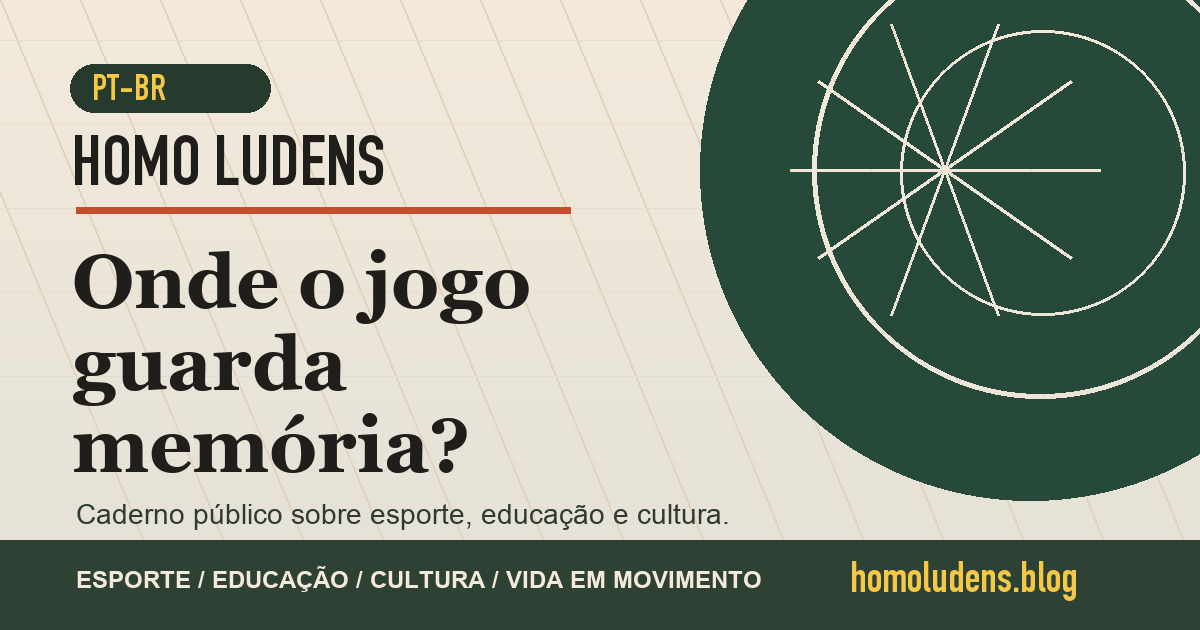
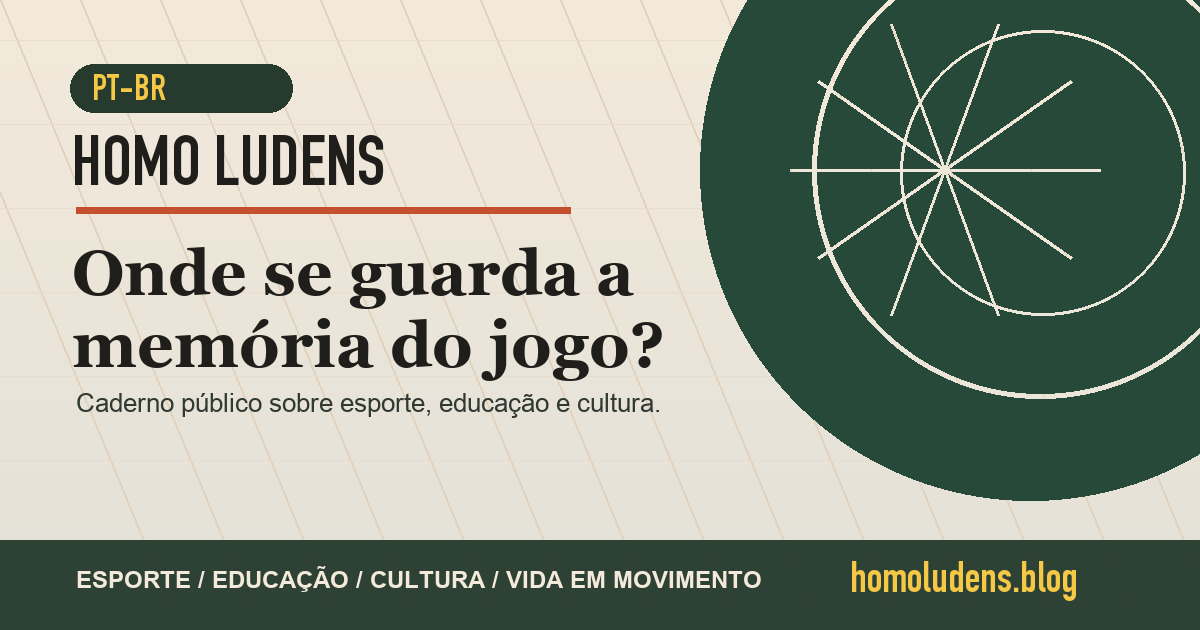
Update Homoludens social question

Changed region(s): [[0.0617, 0.3921, 0.555, 0.754], [0.0617, 0.7841, 0.6167, 0.8444], [0.2158, 0.0905, 0.2467, 0.181]]

diff --git a/es/index.html b/es/index.html
@@ -13,14 +13,14 @@
 </script>
 <meta content="index,follow" name="robots"/>
 <meta content="#F2EDE3" name="theme-color"/>
-<title>¿Dónde guarda memoria el juego? - Homo Ludens Blog</title>
+<title>¿Dónde se guarda la memoria del juego? - Homo Ludens Blog</title>
 <meta content="ES-LATAM. Una puerta latinoamericana para pensar deporte, educación, cultura y vida en movimiento desde el juego." name="description"/>
 <link href="https://www.homoludens.blog/es/" rel="canonical"/>
-<meta content="¿Dónde guarda memoria el juego? - Homo Ludens Blog" property="og:title"/>
+<meta content="¿Dónde se guarda la memoria del juego? - Homo Ludens Blog" property="og:title"/>
 <meta content="ES-LATAM. Una puerta latinoamericana para pensar deporte, educación, cultura y vida en movimiento desde el juego." property="og:description"/>
 <meta content="website" property="og:type"/>
 <meta content="https://www.homoludens.blog/es/" property="og:url"/>
-<meta content="https://www.homoludens.blog/assets/og-homoludens-es.jpg?v=20260608" property="og:image"/>
+<meta content="https://www.homoludens.blog/assets/og-homoludens-es.jpg?v=20260608b" property="og:image"/>
 <script src="https://cdn.tailwindcss.com"></script>
 <script>
     tailwind.config = {
@@ -170,7 +170,7 @@
     .hl-footer__bottom { display: flex; flex-direction: column; gap: .7rem; margin-top: 2.4rem; border-top: 1px solid rgba(43,43,43,.14); padding-top: 1rem; color: var(--hl-tinta); font-size: .72rem; letter-spacing: .08em; text-transform: uppercase; }
     @media (min-width: 768px) { .hl-footer__grid { grid-template-columns: 1.35fr .85fr 1.05fr 1.15fr; align-items: start; } .hl-footer__bottom { flex-direction: row; justify-content: space-between; } }
   </style>
-<meta content="es_419" property="og:locale"/><link href="https://www.homoludens.blog/" hreflang="pt-BR" rel="alternate"/><link href="https://www.homoludens.blog/es/" hreflang="es-419" rel="alternate"/><link href="https://www.homoludens.blog/" hreflang="x-default" rel="alternate"/><script type="application/ld+json">{"@context":"https://schema.org","@type":"WebSite","name":"Homo Ludens Blog","url":"https://www.homoludens.blog/es/","inLanguage":"es-419","publisher":{"@type":"Person","name":"Sebastián Acevedo Vásquez"}}</script><meta content="https://www.homoludens.blog/assets/og-homoludens-es.jpg?v=20260608" property="og:image:secure_url"/><meta content="image/jpeg" property="og:image:type"/><meta content="1200" property="og:image:width"/><meta content="630" property="og:image:height"/><meta content="Card social en español latinoamericano del Homo Ludens Blog con la pregunta ¿Dónde guarda memoria el juego?" property="og:image:alt"/><meta content="pt_BR" property="og:locale:alternate"/><meta content="¿Dónde guarda memoria el juego? - Homo Ludens Blog" name="twitter:title"/><meta content="ES-LATAM. Una puerta latinoamericana para pensar deporte, educación, cultura y vida en movimiento desde el juego." name="twitter:description"/><meta content="https://www.homoludens.blog/assets/og-homoludens-es.jpg?v=20260608" name="twitter:image"/><meta content="Card social en español latinoamericano del Homo Ludens Blog con la pregunta ¿Dónde guarda memoria el juego?" name="twitter:image:alt"/></head>
+<meta content="es_419" property="og:locale"/><link href="https://www.homoludens.blog/" hreflang="pt-BR" rel="alternate"/><link href="https://www.homoludens.blog/es/" hreflang="es-419" rel="alternate"/><link href="https://www.homoludens.blog/" hreflang="x-default" rel="alternate"/><script type="application/ld+json">{"@context":"https://schema.org","@type":"WebSite","name":"Homo Ludens Blog","url":"https://www.homoludens.blog/es/","inLanguage":"es-419","publisher":{"@type":"Person","name":"Sebastián Acevedo Vásquez"}}</script><meta content="https://www.homoludens.blog/assets/og-homoludens-es.jpg?v=20260608b" property="og:image:secure_url"/><meta content="image/jpeg" property="og:image:type"/><meta content="1200" property="og:image:width"/><meta content="630" property="og:image:height"/><meta content="Card social en español latinoamericano del Homo Ludens Blog con la pregunta ¿Dónde se guarda la memoria del juego?" property="og:image:alt"/><meta content="pt_BR" property="og:locale:alternate"/><meta content="¿Dónde se guarda la memoria del juego? - Homo Ludens Blog" name="twitter:title"/><meta content="ES-LATAM. Una puerta latinoamericana para pensar deporte, educación, cultura y vida en movimiento desde el juego." name="twitter:description"/><meta content="https://www.homoludens.blog/assets/og-homoludens-es.jpg?v=20260608b" name="twitter:image"/><meta content="Card social en español latinoamericano del Homo Ludens Blog con la pregunta ¿Dónde se guarda la memoria del juego?" name="twitter:image:alt"/></head>
 <body class="antialiased">
 <a class="sr-only focus:not-sr-only focus:fixed focus:left-4 focus:top-4 focus:z-50 focus:rounded-full focus:bg-grafite focus:px-4 focus:py-2 focus:text-claro" href="#conteudo">Saltar al contenido</a>
 <header class="sticky top-0 z-40 border-b border-linha/80 bg-papel/90 backdrop-blur-xl">

diff --git a/index.html b/index.html
@@ -13,14 +13,14 @@
 </script>
 <meta content="index,follow" name="robots"/>
 <meta content="#F2EDE3" name="theme-color"/>
-<title>Onde o jogo guarda memória? - Homo Ludens Blog</title>
+<title>Onde se guarda a memória do jogo? - Homo Ludens Blog</title>
 <meta content="PT-BR. Um caderno público para pensar esporte, educação, cultura e vida em movimento. Entre pela pergunta, fique pela travessia." name="description"/>
 <link href="https://www.homoludens.blog/" rel="canonical"/>
-<meta content="Onde o jogo guarda memória? - Homo Ludens Blog" property="og:title"/>
+<meta content="Onde se guarda a memória do jogo? - Homo Ludens Blog" property="og:title"/>
 <meta content="PT-BR. Um caderno público para pensar esporte, educação, cultura e vida em movimento. Entre pela pergunta, fique pela travessia." property="og:description"/>
 <meta content="website" property="og:type"/>
 <meta content="https://www.homoludens.blog/" property="og:url"/>
-<meta content="https://www.homoludens.blog/assets/og-homoludens-pt.jpg?v=20260608" property="og:image"/>
+<meta content="https://www.homoludens.blog/assets/og-homoludens-pt.jpg?v=20260608b" property="og:image"/>
 <script src="https://cdn.tailwindcss.com"></script>
 <script>
     tailwind.config = {
@@ -170,7 +170,7 @@
     .hl-footer__bottom { display: flex; flex-direction: column; gap: .7rem; margin-top: 2.4rem; border-top: 1px solid rgba(43,43,43,.14); padding-top: 1rem; color: var(--hl-tinta); font-size: .72rem; letter-spacing: .08em; text-transform: uppercase; }
     @media (min-width: 768px) { .hl-footer__grid { grid-template-columns: 1.35fr .85fr 1.05fr 1.15fr; align-items: start; } .hl-footer__bottom { flex-direction: row; justify-content: space-between; } }
   </style>
-<meta content="pt_BR" property="og:locale"/><link href="https://www.homoludens.blog/" hreflang="pt-BR" rel="alternate"/><link href="https://www.homoludens.blog/es/" hreflang="es-419" rel="alternate"/><link href="https://www.homoludens.blog/" hreflang="x-default" rel="alternate"/><script type="application/ld+json">{"@context":"https://schema.org","@type":"WebSite","name":"Homo Ludens Blog","url":"https://www.homoludens.blog/","inLanguage":"pt-BR","publisher":{"@type":"Person","name":"Sebastián Acevedo Vásquez"}}</script><meta content="https://www.homoludens.blog/assets/og-homoludens-pt.jpg?v=20260608" property="og:image:secure_url"/><meta content="image/jpeg" property="og:image:type"/><meta content="1200" property="og:image:width"/><meta content="630" property="og:image:height"/><meta content="Card social em português do Homo Ludens Blog com a pergunta Onde o jogo guarda memória?" property="og:image:alt"/><meta content="es_419" property="og:locale:alternate"/><meta content="Onde o jogo guarda memória? - Homo Ludens Blog" name="twitter:title"/><meta content="PT-BR. Um caderno público para pensar esporte, educação, cultura e vida em movimento. Entre pela pergunta, fique pela travessia." name="twitter:description"/><meta content="https://www.homoludens.blog/assets/og-homoludens-pt.jpg?v=20260608" name="twitter:image"/><meta content="Card social em português do Homo Ludens Blog com a pergunta Onde o jogo guarda memória?" name="twitter:image:alt"/></head>
+<meta content="pt_BR" property="og:locale"/><link href="https://www.homoludens.blog/" hreflang="pt-BR" rel="alternate"/><link href="https://www.homoludens.blog/es/" hreflang="es-419" rel="alternate"/><link href="https://www.homoludens.blog/" hreflang="x-default" rel="alternate"/><script type="application/ld+json">{"@context":"https://schema.org","@type":"WebSite","name":"Homo Ludens Blog","url":"https://www.homoludens.blog/","inLanguage":"pt-BR","publisher":{"@type":"Person","name":"Sebastián Acevedo Vásquez"}}</script><meta content="https://www.homoludens.blog/assets/og-homoludens-pt.jpg?v=20260608b" property="og:image:secure_url"/><meta content="image/jpeg" property="og:image:type"/><meta content="1200" property="og:image:width"/><meta content="630" property="og:image:height"/><meta content="Card social em português do Homo Ludens Blog com a pergunta Onde se guarda a memória do jogo?" property="og:image:alt"/><meta content="es_419" property="og:locale:alternate"/><meta content="Onde se guarda a memória do jogo? - Homo Ludens Blog" name="twitter:title"/><meta content="PT-BR. Um caderno público para pensar esporte, educação, cultura e vida em movimento. Entre pela pergunta, fique pela travessia." name="twitter:description"/><meta content="https://www.homoludens.blog/assets/og-homoludens-pt.jpg?v=20260608b" name="twitter:image"/><meta content="Card social em português do Homo Ludens Blog com a pergunta Onde se guarda a memória do jogo?" name="twitter:image:alt"/></head>
 <body class="antialiased">
 <a class="sr-only focus:not-sr-only focus:fixed focus:left-4 focus:top-4 focus:z-50 focus:rounded-full focus:bg-grafite focus:px-4 focus:py-2 focus:text-claro" href="#conteudo">Pular para o conteúdo</a>
 <header class="sticky top-0 z-40 border-b border-linha/80 bg-papel/90 backdrop-blur-xl">